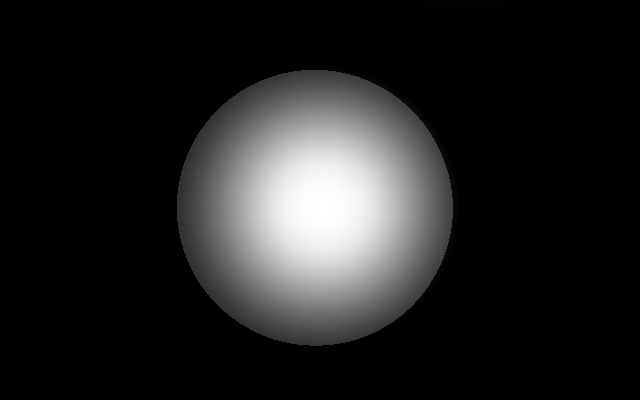
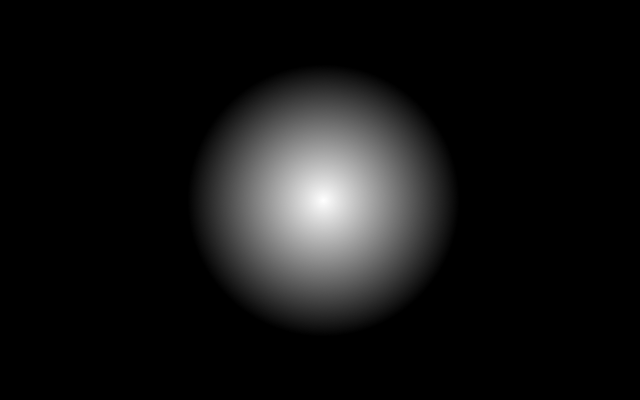
Fixed text events

Changed region(s): [[0.25, 0.15, 0.7188, 0.87]]

diff --git a/csce444/game/scripts/player/Player.js b/csce444/game/scripts/player/Player.js
@@ -47,6 +47,7 @@ function Player() {
     this.offRoadOverLays[1]        = ResourceManager.loadImage("./images/overlays/OffRoadOverLay2.png");
     this.offRoadOverLays[2]        = ResourceManager.loadImage("./images/overlays/OffRoadOverLay3.png");
     this.offRoadOverLays[3]        = ResourceManager.loadImage("./images/overlays/OffRoadOverLay4.png");
+    this.offRoadOverLays[4]        = ResourceManager.loadImage("./images/overlays/OffRoadOverLay5.png");
     this.blankOverLay              = ResourceManager.loadImage("./images/overlays/BlankOverLay.png");
 
 }
@@ -57,9 +58,14 @@ Player.prototype.init = function() {
     this.onPathMusic.volume = .05;
     this.commitSinSound.volume = .05;
 
-    this.offRoadData  = getImageData(this.offRoadOverLays[0]);
-    this.onRoadData   = getImageData(this.roadOverLay);
-    this.blankData = getImageData(this.blankOverLay);
+    this.offRoadDatas = [];
+    this.offRoadDatas[0]  = Util.getImageData(this.offRoadOverLays[0]);
+    this.offRoadDatas[1]  = Util.getImageData(this.offRoadOverLays[1]);
+    this.offRoadDatas[2]  = Util.getImageData(this.offRoadOverLays[2]);
+    this.offRoadDatas[3]  = Util.getImageData(this.offRoadOverLays[3]);
+    this.offRoadDatas[4]  = Util.getImageData(this.offRoadOverLays[4]);
+    this.onRoadData   = Util.getImageData(this.roadOverLay);
+    this.blankData = Util.getImageData(this.blankOverLay);
 }
 
 Player.prototype.update = function() {
@@ -87,23 +93,8 @@ Player.prototype.update = function() {
         vX += 1;
         moving = true;
     }
-    
-    // if attacking
-    if(this.attacking) {
-        if(this.isAttackFinished())
-            this.resetAttack();
-    }
 
-    // else if preparing to attack
-    else if(this.preppingAttack) {
-        if(this.isAttackReady())
-            this.attack();
-
-        // keep prepping that attack bro
-        this.vector = Math.atan2(vX, vY);
-    }
-
-    else if(moving) {
+    if(moving) {
         this.velocity += PLAYER_ACCEL;
         this.vector = Math.atan2(vX, vY);
     }
@@ -113,8 +104,10 @@ Player.prototype.update = function() {
         y: this.position.y + Math.cos(this.vector ) *  this.velocity
     };
 
-    this.pathChangeHandler( this.position , newPos );
 
+    var oldPos = {};
+    oldPos.x = this.position.x;
+    oldPos.y = this.position.y;
     if(canBeAt({x: newPos.x, y: this.position.y}, this)) {
         this.position.x = newPos.x;
     }
@@ -132,6 +125,8 @@ Player.prototype.update = function() {
         if(canBeAt({x: this.position.x, y: newPos.y}, this))
             this.position.y = newPos.y;
     }
+
+    this.pathChangeHandler( oldPos , newPos );
 
     this.velocity -= this.velocity * PLAYER_SPEED_FRICTION;
     // Update camera center
@@ -163,11 +158,6 @@ Player.prototype.getHitBox = function() {
 };
 
 Player.prototype.draw = function() {
-
-    if(this.dead) {
-        //Camera.drawImage(this.deadImage, this.position.x - 11, this.position.y + 21, 35, 30);
-        return;
-    }
 
     //guy shadow
     //Camera.drawImage(this.shadowImage, this.position.x - 3, this.position.y + 33, 21, 12);
@@ -210,21 +200,108 @@ Player.prototype.draw = function() {
     }
 };
 
-Player.prototype.onTheStraightAndNarrow = function(pos) {
-    var distance = Math.abs(pos.y - world.roadPosition.y);
-    if ( distance < 65 ) {
-        return true;
-    } else {
-        return false;
+
+
+Part = {};
+Part.straightAndNarrow = 0;
+Part.road = 1;
+Part.aroundRoad = 2;
+Part.offRoad = 3;
+
+Player.prototype.onPart = function(part , pos) {
+    var distance = Math.abs( pos.y - world.roadPosition.y );
+    switch (part) {
+        case Part.straightAndNarrow:{
+            if (distance < 15) {
+              return true;
+            }
+            break;
+        }
+        case Part.road: {
+          if ( distance >=15 &&  distance < 62 ) {
+              return true;
+          }
+          break;
+        }
+        case Part.aroundRoad: {
+            if ( distance >= 62 && distance < 200 ) {
+                return true;
+            }
+            break;
+        }
+        case Part.offRoad: {
+            if ( distance >= 200 ) {
+                return true;
+            }
+            break;
+        }
     }
+    return false;
 };
 
-Player.prototype.offRoad = function(pos) {
-    var distance = Math.abs(pos.y - world.roadPosition.y);
-    if ( distance > 200 ) {
-        return true;
-    } else {
-        return false;
+Player.prototype.pathChangeHandler = function(oldPos , newPos) {
+    // Off straight and narrow
+    if ( this.onPart( Part.straightAndNarrow , oldPos ) &&  !this.onPart( Part.straightAndNarrow , newPos ) ) {
+        this.roadEvent(RoadEvent.offStraight);
+        console.log("Got off straight and narrow");
+    }
+    // Off road
+    if ( this.onPart( Part.road , oldPos ) &&  !this.onPart( Part.road , newPos ) && !this.onPart( Part.straightAndNarrow , newPos)) {
+        this.roadEvent(RoadEvent.offRoad);
+        console.log("Got off road");
+    }
+    // Off around road
+    if ( this.onPart( Part.aroundRoad , oldPos ) &&  !this.onPart( Part.aroundRoad , newPos ) && !this.onPart( Part.road , newPos)) {
+        this.roadEvent(RoadEvent.offAroundRoad);
+        console.log("Got off aroundroad");
+    }
+
+    // Back around road
+    if ( this.onPart( Part.offRoad , oldPos ) &&  !this.onPart( Part.offRoad , newPos )) {
+        this.roadEvent(RoadEvent.onAroundRoad);
+        console.log("Got on aroundroad");
+    }
+    // Back on road
+    if ( this.onPart( Part.aroundRoad , oldPos ) &&  this.onPart( Part.road , newPos )) {
+        this.roadEvent(RoadEvent.onRoad);
+        console.log("Got on road");
+    }
+    // Back on straiht and narrow
+    if ( this.onPart( Part.road , oldPos ) &&  this.onPart( Part.straightAndNarrow , newPos )) {
+        this.roadEvent(RoadEvent.onStraight);
+        console.log("Got on straight and narrow");
+    }
+};
+RoadEvent = {};
+RoadEvent.offStraight = 0;
+RoadEvent.offRoad = 1;
+RoadEvent.offAroundRoad = 2;
+RoadEvent.onAroundRoad = 3;
+RoadEvent.onRoad = 4;
+RoadEvent.onStraight = 5;
+Player.prototype.roadEvent = function( event ) {
+    switch (event ) {
+        case RoadEvent.onStraight: {
+            this.lightLevel = 0;
+            if ( this.beenFarOut ) {
+                var message = "You have found the one true light again.";
+                ToggleWordBlock(message);
+                this.beenFarOut = false;
+            }
+            break;
+        }
+        case RoadEvent.offRoad: {
+            console.log("Off Road Event");
+            var message = "There is nothing out there... Come back or perish";
+            ToggleWordBlock(message);
+            break;
+        }
+        case RoadEvent.offAroundRoad: {
+            var message = "You are alone.";
+            ToggleWordBlock(message);
+            this.beenFarOut = true;
+            break;
+        }
     }
 };
 
@@ -237,36 +314,9 @@ Player.prototype.commitSin = function() {
         this.canSin = false;
         var that = this;
         setTimeout( function() {
-            that.canSin = true;
-        } ,
-        1000);
-    }
-};
-
-Player.prototype.pathChangeHandler = function(oldPos , newPos) {
-    if ( !this.offRoad(oldPos) && this.offRoad(newPos) ) {
-        // Going off road
-        console.log("Going off road");
-        this.onPathMusic.volume = 0;
-        this.onRoad = false;
-
-        offRoadEvent();
-        return;
-    }
-
-    if ( this.onTheStraightAndNarrow(oldPos) && !this.onTheStraightAndNarrow(newPos)) {
-        offStraightAndNarrow();
-        return;
-    }
-
-    if ( !this.onRoad && this.onTheStraightAndNarrow(newPos) ) {
-        backOnRoadEvent();
-        // Got back on straight and narrow
-        console.log("Back on the narrow");
-        this.onPathMusic.volume = .05;
-        this.onRoad = true;
-        this.lightLevel = 0;
-        return;
+                that.canSin = true;
+            } ,
+            1000);
     }
 };
 
@@ -275,13 +325,13 @@ Player.prototype.drawLight = function() {
         return;
 
         if ( this.count % 5 == 0) {
-            this.blendImages(this.onRoadData, this.offRoadData, this.blankData, this.blankOverLay.width, this.blankOverLay.height);
+            this.blendImages(this.onRoadData, this.offRoadDatas[this.lightLevel], this.blankData);
         }
         this.count++;
         Camera.drawImageSmooth(this.blankOverLay , 0 , 0 , CAMERA_NATIVE_WIDTH , CAMERA_NATIVE_HEIGHT);
 };
 
-Player.prototype.blendImages = function(img1 , img2, newImage , width , height) {
+Player.prototype.blendImages = function(img1 , img2, newImage) {
     var canvas  = document.getElementById('blendCanvas');
     var context = canvas.getContext('2d');
 
@@ -315,41 +365,6 @@ Player.prototype.blendImages = function(img1 , img2, newImage , width , height) 
     context.putImageData(newImage , 0 ,0);
     this.blankOverLay.src = canvas.toDataURL();
 };
-
-function getImageData(img) {
-    var canvas  = document.getElementById('blendCanvas');
-    var context = canvas.getContext('2d');
-    context.clearRect(0,0, 640 , 400);
-    context.drawImage(img,  0,0 , 640 , 400 );
-    var data = context.getImageData(0,0 , 640 , 400);
-    return data;
-}
-
-function offStraightAndNarrow() {
-    var sassyMessage = "There is nothing out there... Come back or perish"
-    ToggleWordBlock(sassyMessage);
-    PAUSE = true;
-}
-
-function offRoadEvent() {
-    if ( player.fallen)
-        return;
-    console.log("Off road event");
-    var sassyMessage = "You have fallen.";
-    player.fallen = true;
-    ToggleWordBlock(sassyMessage);
-    PAUSE = true;
-}
-
-function backOnRoadEvent() {
-    player.fallen = false;
-    console.log("Cant wait to get on the road again");
-    var sassyMessage = "It is so nice to see you again.";
-    ToggleWordBlock(sassyMessage);
-    PAUSE = true;
-}
-
-
 
 Player.prototype.getTopBounds = function() {
     return this.position.y + DEFAULT_GUY_OFFSET_TOP;

diff --git a/csce444/game/scripts/TextBlock.js b/csce444/game/scripts/TextBlock.js
@@ -1,6 +1,31 @@
 function ToggleWordBlock(words , hide) {
     var textBlock = document.getElementById("theTextBlock");
     var span = document.getElementById("words");
+    span.textContent = words;
+
+    function toggleHidden() {
+        var index = textBlock.className.indexOf("hidden");
+        if ( index >= 0 && !hide) {
+            textBlock.className = textBlock.className.substring(0 , index);
+        }
+        else if( index < 0) {
+            textBlock.className += "hidden";
+        }
+    }
+
+
+    toggleHidden();
+    setTimeout( toggleHidden , 4000);
+
+}
+
+/*
+
+
+
+function ToggleWordBlock(words , hide) {
+    var textBlock = document.getElementById("theTextBlock");
+    var span = document.getElementById("words");
     span.textContent = "";
 
     var count =0;
@@ -51,3 +76,4 @@ function setBlockText(words) {
 
     addWords();
 }
+*/

diff --git a/csce444/game/scripts/Util.js b/csce444/game/scripts/Util.js
@@ -50,3 +50,13 @@ Util.getRandomNumber = function(bound)
 {
     return Math.floor(Math.random() * bound);
 };
+
+
+Util.getImageData = function(img) {
+    var canvas  = document.getElementById('blendCanvas');
+    var context = canvas.getContext('2d');
+    context.clearRect(0,0, 640 , 400);
+    context.drawImage(img,  0,0 , 640 , 400 );
+    var data = context.getImageData(0,0 , 640 , 400);
+    return data;
+};

diff --git a/csce444/game/style/style.css b/csce444/game/style/style.css
@@ -58,16 +58,13 @@ body {
     bottom : 1%;
     left: 10%;
 
-    border-radius : 60px;
-    border-color  : #000000;
-    border-style  : solid;
-    border-width: 15px;
-    transition: bottom, 1s;
+    transition: opacity, 3s;
     color: black;
+    opacity: 255;
 }
 
 .textBlock.hidden {
-    bottom: -25%;
+    opacity: 0;
 }
 
 .textBlock span {
